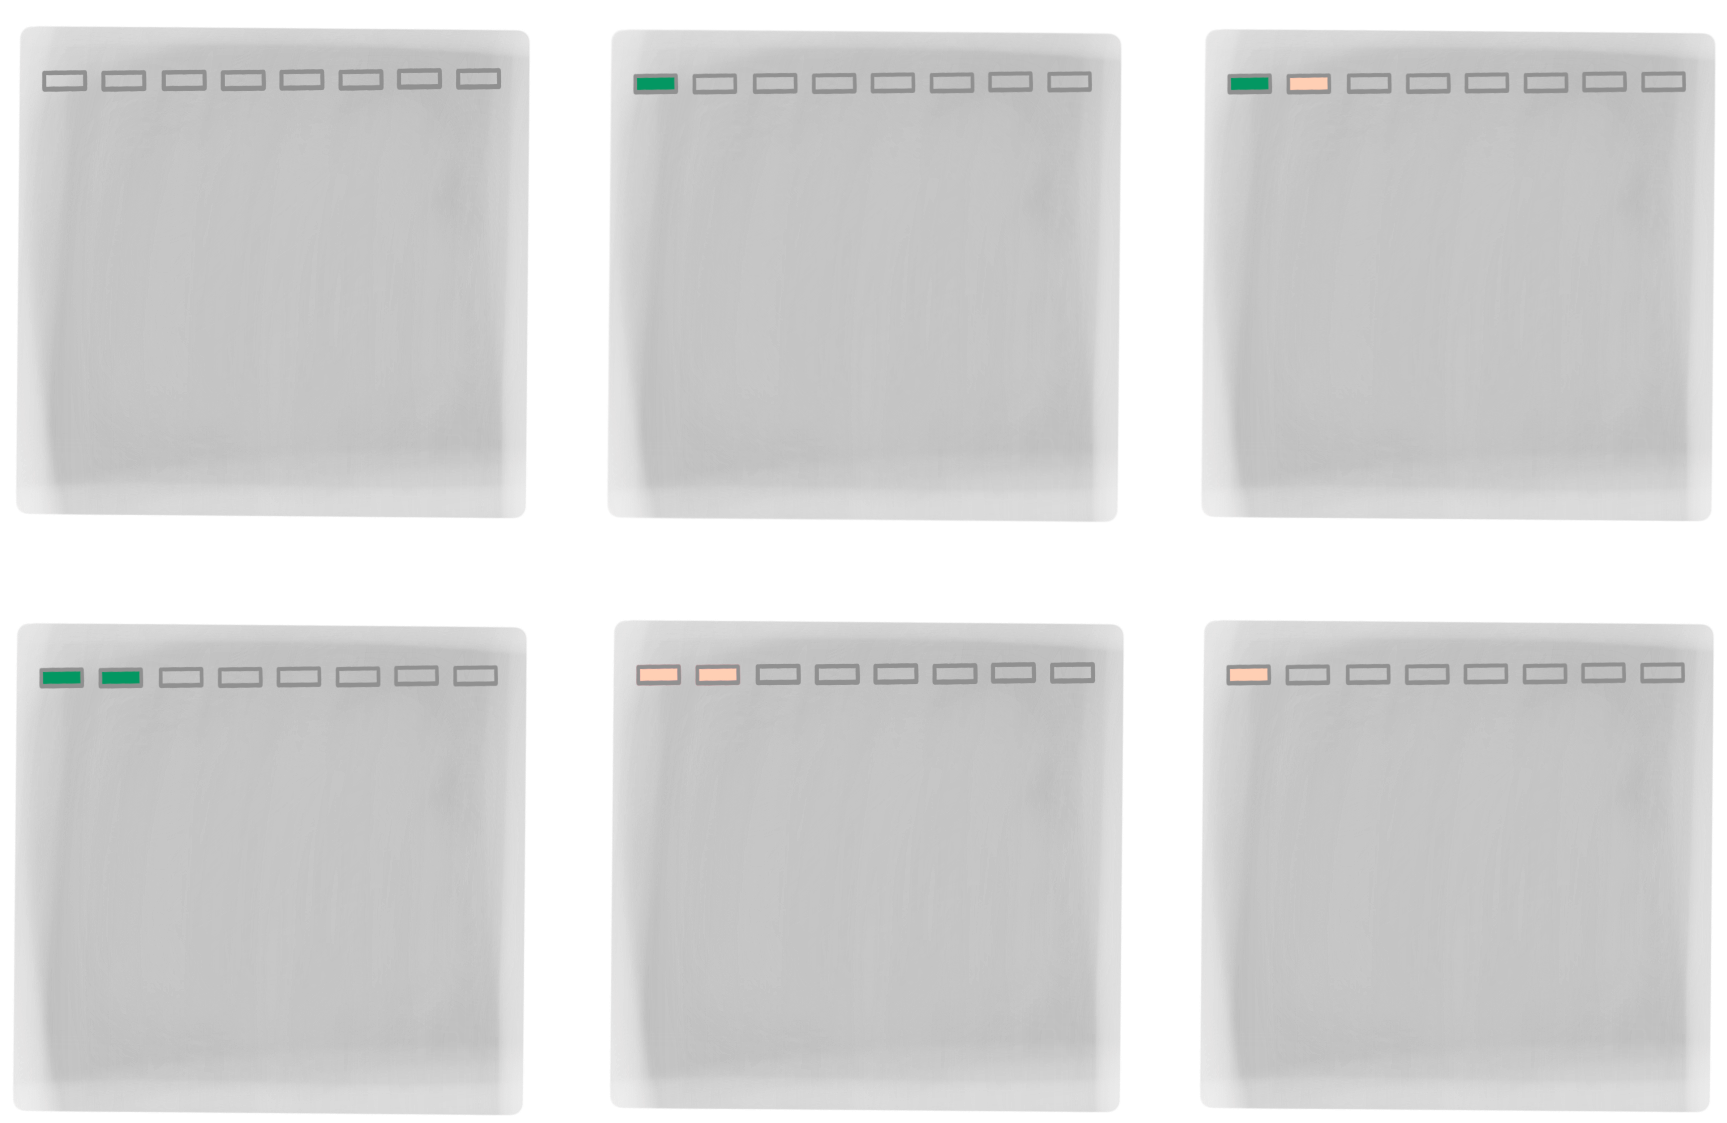
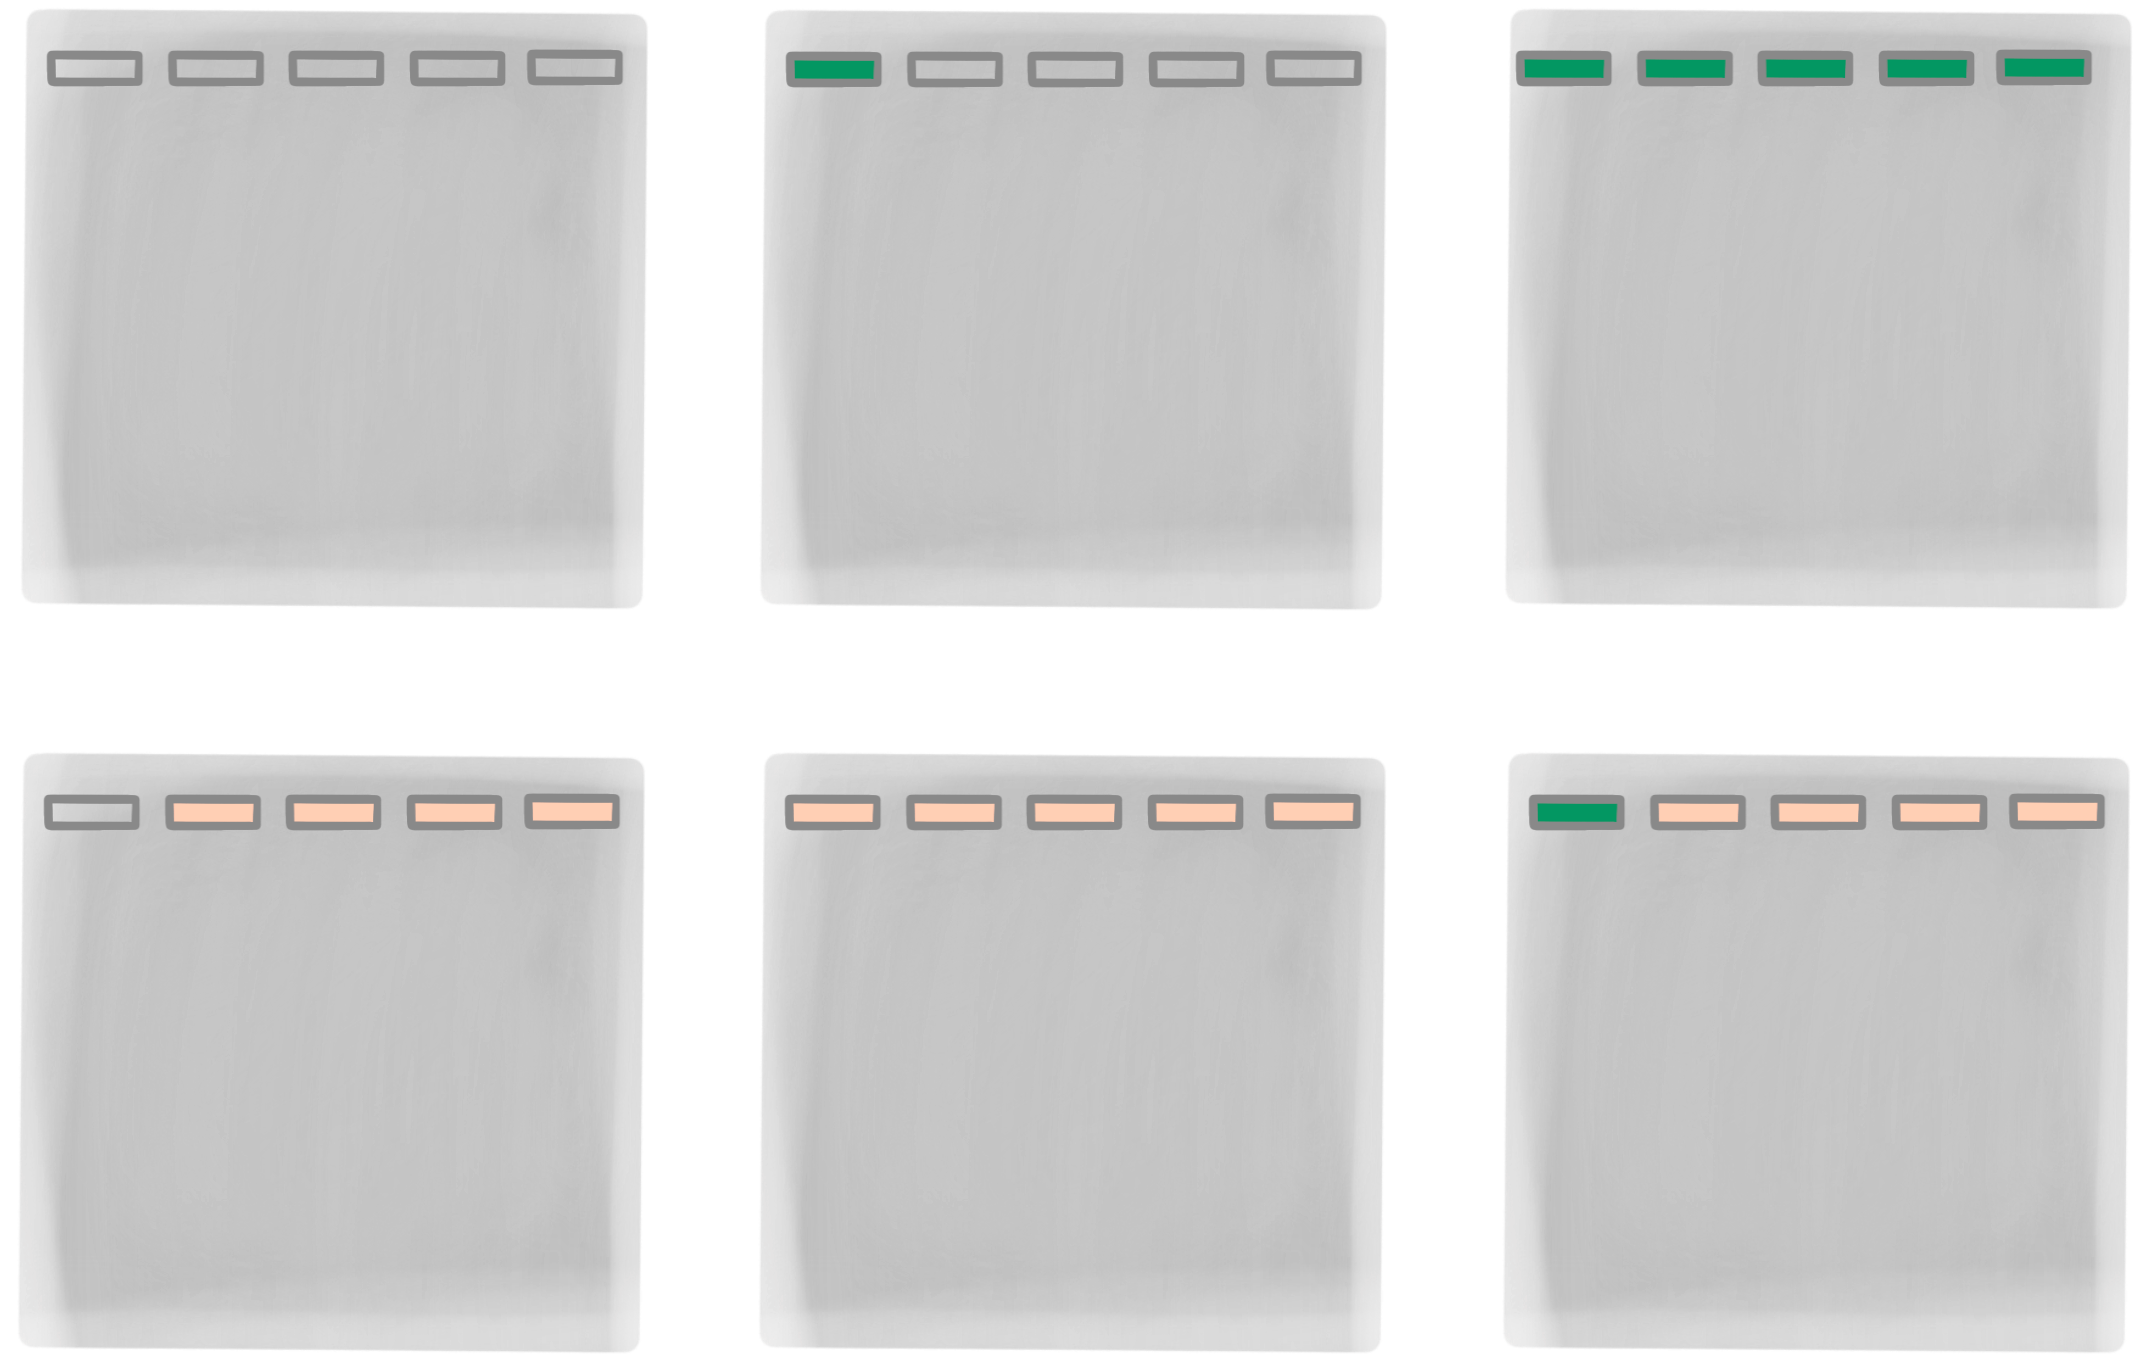
webgame stage5 uv

diff --git a/webgamejs/stage5/gel.js b/webgamejs/stage5/gel.js
@@ -1,7 +1,7 @@
 var desk_what = [
             ['TAE','agarose','marker','sample','','beaker','beaker','','',''],
-            ['','','','','','','','','',''],
-            ['','','','','','','','','',''],
+            ['','','','','','','','','','uv'],
+            ['','','','','','','','','','gel_machine'],
             ['mod','','','','pipette','','','','',''],
             ['mod','','','','','','','','',''],
             ['','','','','','','','','','tank'],
@@ -60,6 +60,8 @@ function preload_stage5_take(){
     this.load.image("qte_half",'img/stage5/qte_bar_half.png');
     this.load.image("qte_perfect",'img/stage5/qte_bar_perfect.png');
     this.load.image("qte_bar",'img/stage5/qte_bar.png');
+    this.load.image("gel_machine",'img/stage5/gel_machine.png');
+    this.load.image("uv",'img/stage5/uv.png');
     // this.load.image("gel",'img/stage5/gel.png');
     //remind: change gel photo
     this.load.spritesheet('mod',
@@ -115,6 +117,7 @@ function create_stage5_take (){
     loading_transition(this,-500*width/800,0);
     var deskGroup = this.physics.add.staticGroup();
     var cant_move_item = this.physics.add.staticGroup();
+    var gel_list=[];
     //--------------------場景設定--------------------
     //背景
     this.add.image(0, 0, 'background').setOrigin(0, 0).setDisplaySize(width,height);
@@ -472,6 +475,9 @@ function create_stage5_take (){
                     desk[i][j].item.alert.alpha=0;
                     desk[i][j].item.alert.setTint(0x000000);
                     desk[i][j].item.alert.depth=100;
+                }else if(desk_what[i][j]=="uv"){
+                    desk[i][j].item.depth+=1;
+                    desk[i][j].item.alpha=0.65;
                 }
             }
         }
@@ -489,6 +495,10 @@ function create_stage5_take (){
             Object.setInteractive().setBodySize(Object.width,Object.height);
         }else if(what=="trashcan"){
             Object = trashcan.create(x, y+width*0.02, what).setDisplaySize(width*0.1/2,height*0.17/2).refreshBody();
+        }else if(what=="uv"){
+            Object = cant_move_item.create(x, y+width*0.02, what).setDisplaySize(width*0.1,height*0.3).refreshBody();
+        }else if(what=="gel_machine"){
+            Object = cant_move_item.create(x+width*0.02, y+width*0.02-height*0.15, what).setDisplaySize(width*0.1,height*0.3).refreshBody();
         }else if(what=="sample" || what=="marker"){
             Object = cant_move_item.create(x, y, what).setDisplaySize(width*0.1/6,height*0.17/3).refreshBody();
         }else{
@@ -534,6 +544,8 @@ function create_stage5_take (){
                     tank_in(p, desk_entity.item);
                 }else if((desk_entity.item.type=="tank") && p.pick.type=="beaker"){
                     tank_change_TAE(p, desk_entity.item);
+                }else if((desk_entity.item.type=="uv" || desk_entity.item.type=="gel_machine") && p.pick.type=="gel"){
+                    gel_submit(p, desk_entity.item);
                 }
             }else{//player has nothing
                 if(desk_entity.item.type=="beaker" || desk_entity.item.type=="pipette" || desk_entity.item.type=="gel"){
@@ -1057,6 +1069,11 @@ function create_stage5_take (){
             },25);
         }
        
+    }
+    function gel_submit(p, item){
+        gel_list.push(p.pick);
+        p.pick.alpha=0;
+        p.pick=null;
     }
     var x,y,status=0;
     direct=this.add.image(x, y, 'direct').setDisplaySize(0.2*width,0.2*width);

diff --git a/css/index.css b/css/index.css
@@ -25,6 +25,7 @@ body{
   font-family: papyrus;
   font-weight: 800;
   display: table;
+  width: 100%;
 }
 #navbar{
     width: 100%;
